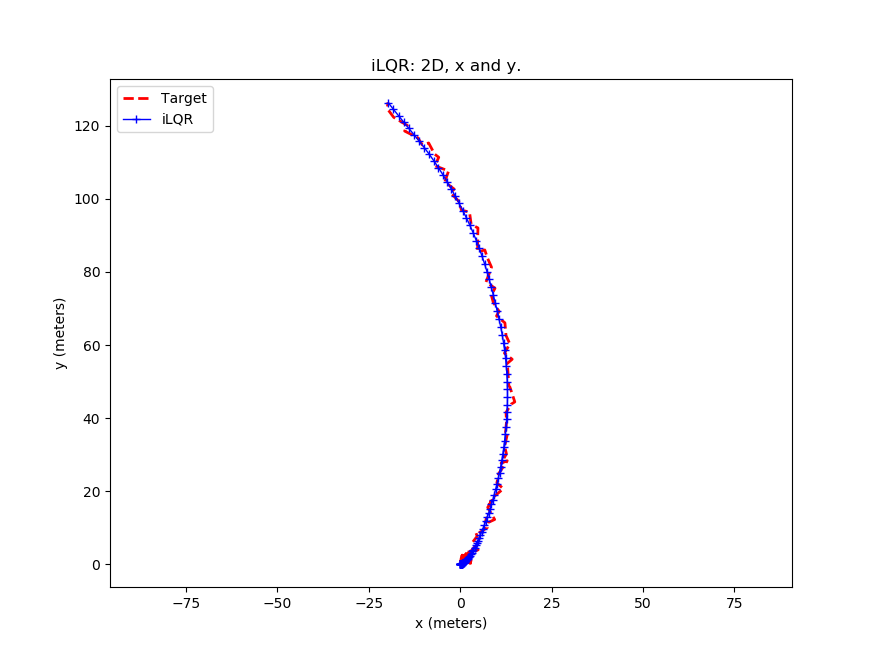
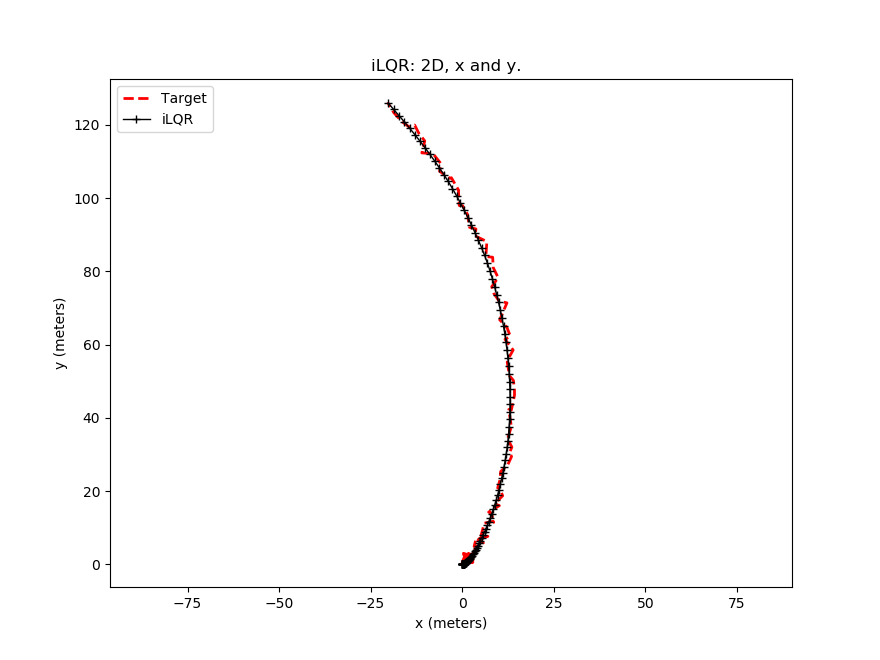
minor

diff --git a/ilqr_demo.py b/ilqr_demo.py
@@ -67,7 +67,7 @@ def example_acc():
     plt.plot(noisy_targets[:, 0],
              noisy_targets[:, 1], '--r', label='Target', linewidth=2)
     plt.plot(optimizer.states[:, 0], optimizer.states[:, 1],
-             '-+b', label='iLQR', linewidth=1.0)
+             '-+k', label='iLQR', linewidth=1.0)
     plt.legend(loc='upper left')
     plt.xlabel('x (meters)')
     plt.ylabel('y (meters)')
@@ -148,7 +148,7 @@ def example_jerk():
     plt.plot(noisy_targets[:, 0],
              noisy_targets[:, 1], '--r', label='Target', linewidth=2)
     plt.plot(optimizer.states[:, 0], optimizer.states[:, 1],
-             '-+b', label='iLQR', linewidth=1.0)
+             '-+k', label='iLQR', linewidth=1.0)
     plt.xlabel('x (meters)')
     plt.ylabel('y (meters)')
     plt.figure(figsize=(8*1.1, 6*1.1))
@@ -202,7 +202,7 @@ def example_dubins():
     plt.plot(optimizer.target_states[:, 0],
              optimizer.target_states[:, 1], '--r', label='Target', linewidth=2)
     plt.plot(optimizer.states[:, 0], optimizer.states[:, 1],
-             '-+b', label='iLQR', linewidth=1.0)
+             '-+k', label='iLQR', linewidth=1.0)
     plt.xlabel('x (meters)')
     plt.ylabel('y (meters)')
     plt.show()
